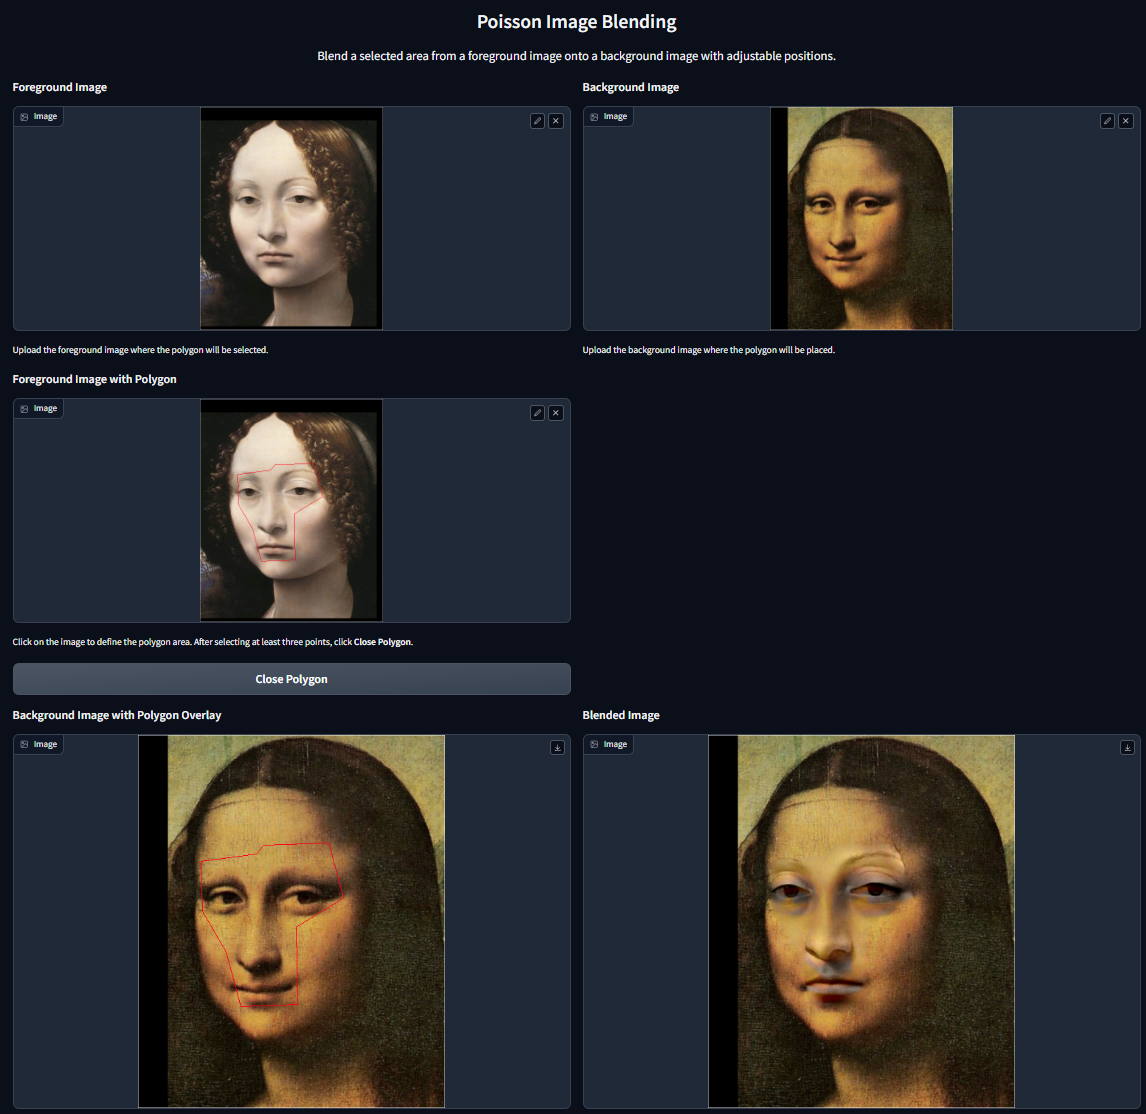
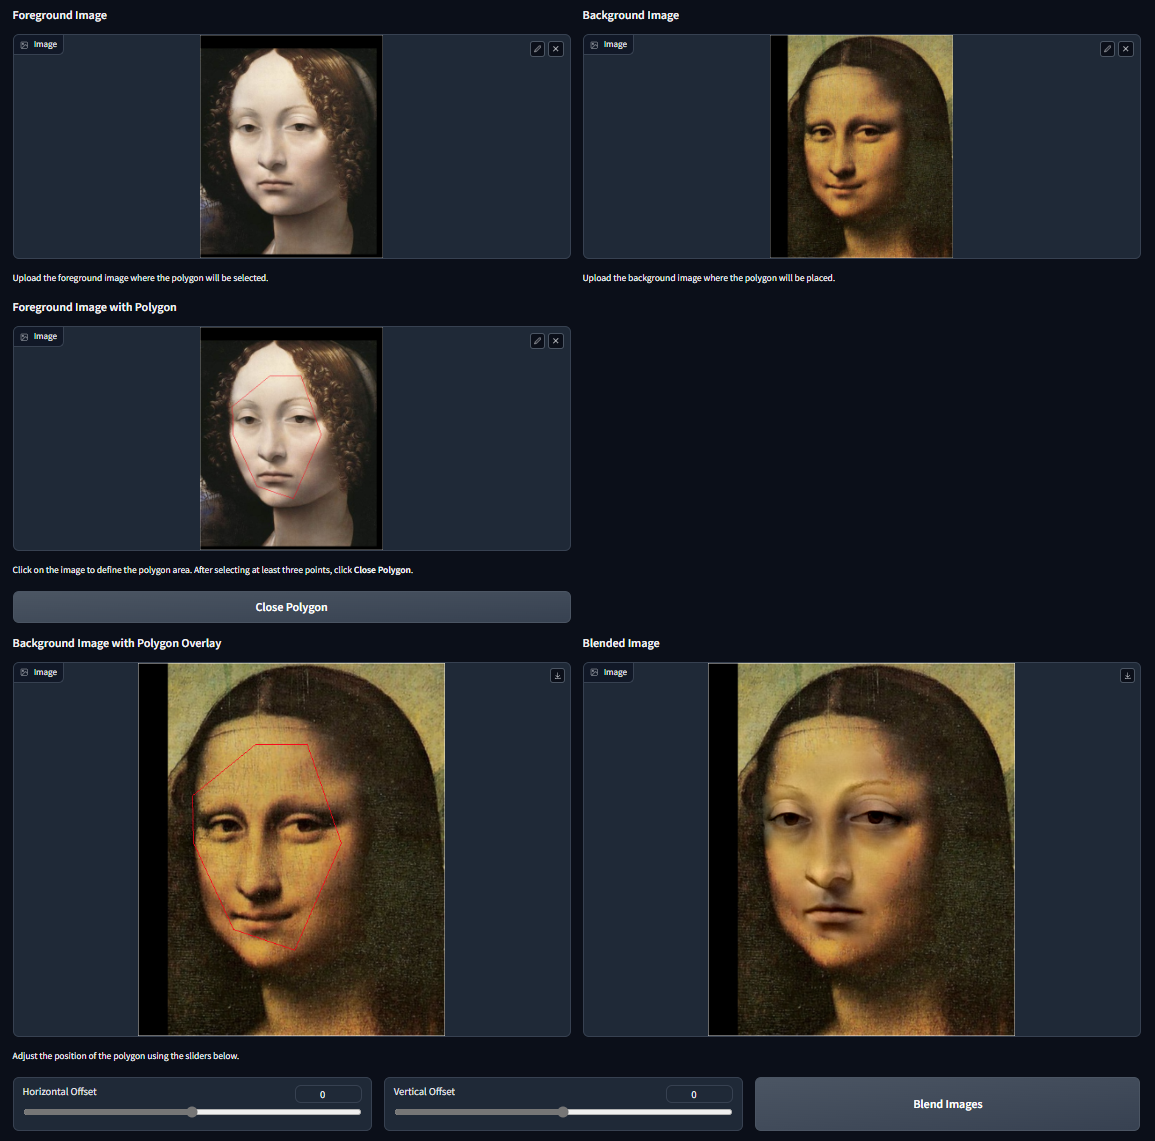
hw2

diff --git a/homework/homework2/02_DIPwithPyTorch/run_blending_gradio.py b/homework/homework2/02_DIPwithPyTorch/run_blending_gradio.py
@@ -148,21 +148,21 @@ def cal_laplacian_loss(foreground_img, foreground_mask, blended_img, background_
     ### FILL: Compute Laplacian Loss with https://pytorch.org/docs/stable/generated/torch.nn.functional.conv2d.html.
     ### Note: The loss is computed within the masks.
     laplacian_kernel = torch.tensor([
-        [0, 1, 0],
-        [1, -4, 1],
-        [0, 1, 0]
+        [0, -1, 0],
+        [-1, 4, -1],
+        [0, -1, 0]
     ], dtype=torch.float32)
     # 将核的形状调整为 [out_channels, in_channels, kernel_height, kernel_width]
     # 并复制到每个通道
-    laplacian_kernel = laplacian_kernel.view(1, 1, 3, 3).repeat(1, C, 1, 1)
+    laplacian_kernel = laplacian_kernel.view(1, 1, 3, 3)#.repeat(1, C, 1, 1)
     laplacian_kernel = laplacian_kernel.to(foreground_img.device)
 
-    laplacian_foreground_img = nn.functional.conv2d(foreground_img, laplacian_kernel, padding=1)
-    laplacian_blended_img = nn.functional.conv2d(blended_img, laplacian_kernel, padding=1)
-
-    foreground_mask_index = foreground_mask.bool()#.expand(1, -1, -1, -1)
-    background_mask_index = background_mask.bool()#.expand(1, -1, -1, -1)
-    loss = loss + torch.sum((laplacian_foreground_img[foreground_mask_index] - laplacian_blended_img[background_mask_index])**2)
+    laplacian_foreground_img = nn.functional.conv2d(foreground_img.permute(1,0,2,3), laplacian_kernel, padding=1)
+    laplacian_blended_img = nn.functional.conv2d(blended_img.permute(1,0,2,3), laplacian_kernel, padding=1)
+    foreground_mask_index = foreground_mask.bool().expand(3, -1, -1, -1)  # .expand(1, -1, -1, -1)
+    background_mask_index = background_mask.bool().expand(3, -1, -1, -1)  # .expand(1, -1, -1, -1)
+    #print(foreground_mask_index.shape)
+    loss = loss + torch.mean((laplacian_foreground_img[foreground_mask_index] - laplacian_blended_img[background_mask_index])**2)
     return loss
 
 # Perform Poisson image blending
